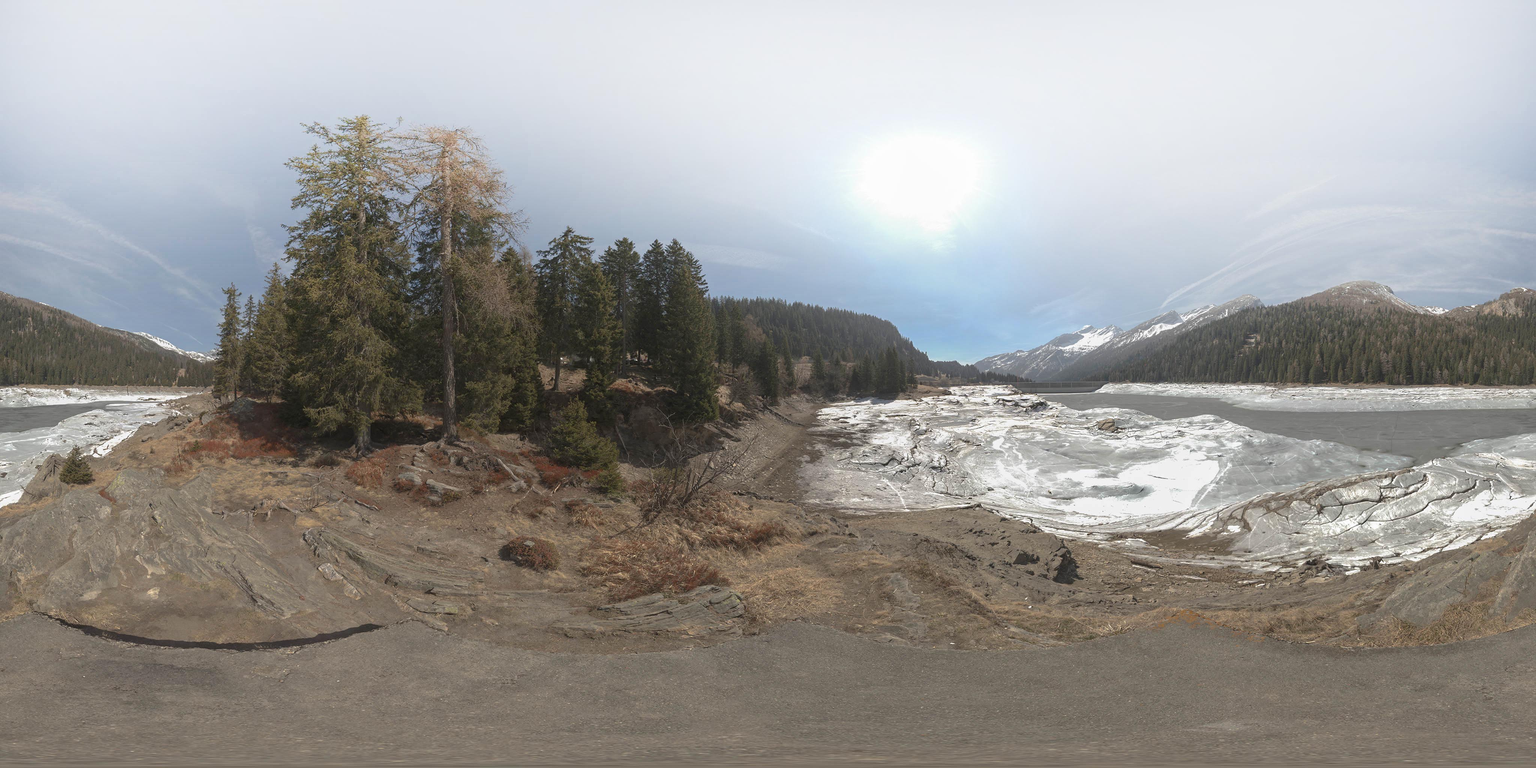
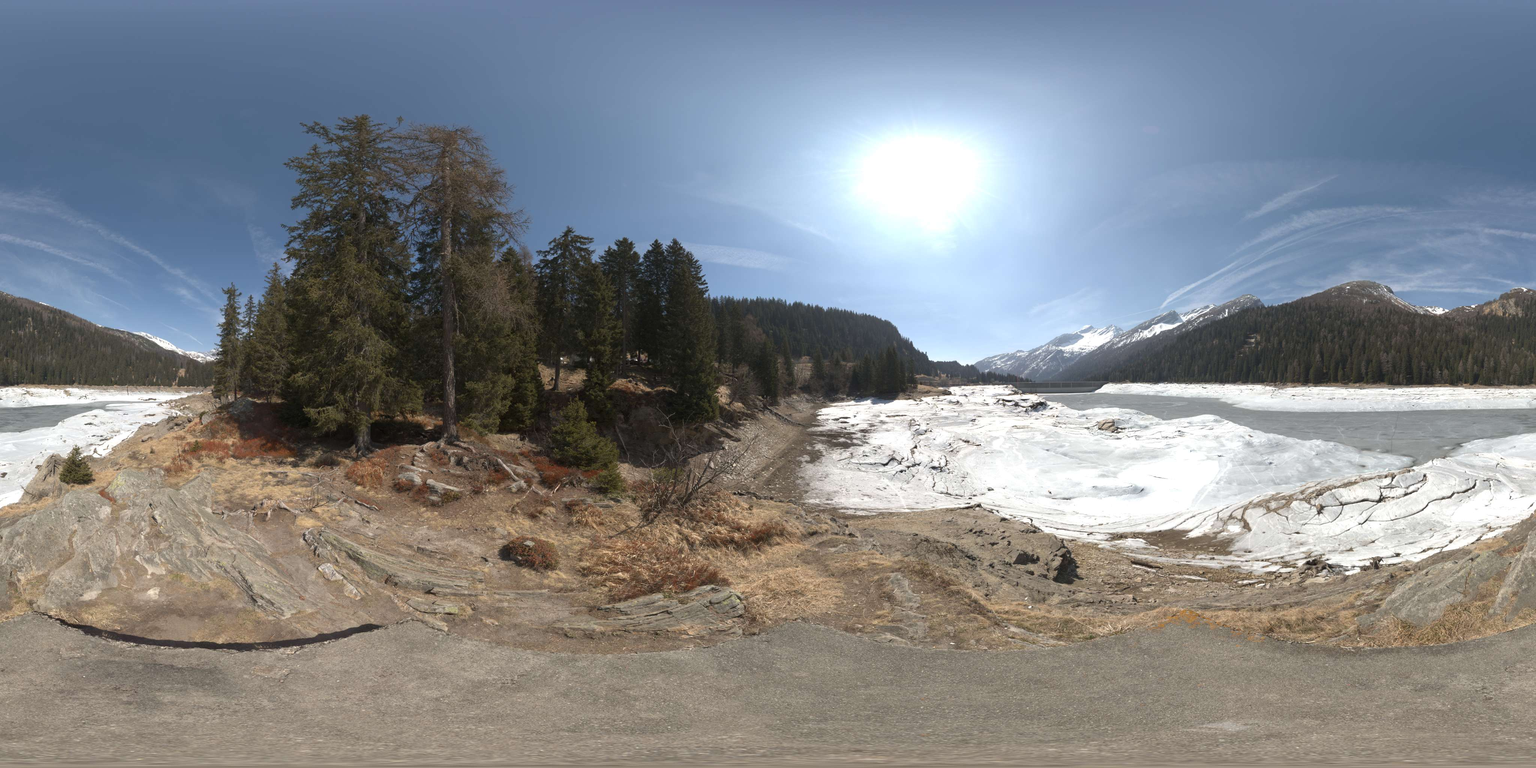
added new hdris with gain maps

diff --git a/kingsley/js/configuratorscript.js b/kingsley/js/configuratorscript.js
@@ -95,51 +95,75 @@ const handleToggleButton = () => {
 // Call the function to handle the button click
 handleToggleButton();
 
-  // Variable to store the current skybox image URL
+// Variable to store the current skybox and environment image URLs
 let currentSkyboxImageUrl = null;
+let currentEnvironmentImageUrl = null;
 
-// Function to set the skybox image dynamically with query parameters
-function setSkyboxImage(imageUrl) {
-  // Generate a unique timestamp using Date.now()
-  const timestamp = Date.now();
+// Function to set the skybox and environment image dynamically with query parameters
+function setSkyboxAndEnvironmentImages(skyboxImageUrl, environmentImageUrl) {
+    // Generate a unique timestamp using Date.now()
+    const timestamp = Date.now();
 
-  // Append the timestamp as a query parameter to the image URL
-  const urlWithTimestamp = `${imageUrl}?timestamp=${timestamp}`;
+    // Append the timestamp as a query parameter to the URLs
+    const skyboxUrlWithTimestamp = `${skyboxImageUrl}?timestamp=${timestamp}`;
+    const environmentUrlWithTimestamp = `${environmentImageUrl}?timestamp=${timestamp}`;
 
-  // Cleanup previous skybox image from memory
-  cleanupPreviousSkybox();
+    // Cleanup previous skybox and environment images from memory
+    cleanupPreviousSkybox();
 
-  // Store the current skybox image URL
-  currentSkyboxImageUrl = urlWithTimestamp;
+    // Store the current skybox and environment image URLs
+    currentSkyboxImageUrl = skyboxUrlWithTimestamp;
+    currentEnvironmentImageUrl = environmentUrlWithTimestamp;
 
-  // Set the skybox image with the updated URL
-  const modelViewer = document.querySelector("#configurator"); // Assuming this is your model-viewer element
-  modelViewer.setAttribute('skybox-image', urlWithTimestamp);
+    // Set the skybox and environment images with the updated URLs
+    const modelViewer = document.querySelector("#configurator"); // Assuming this is your model-viewer element
+    modelViewer.setAttribute('skybox-image', skyboxUrlWithTimestamp);
+    modelViewer.setAttribute('environment-image', environmentUrlWithTimestamp);
 }
 
-// Function to cleanup the previous skybox image from memory
+// Function to cleanup the previous skybox and environment images from memory
 function cleanupPreviousSkybox() {
-  if (currentSkyboxImageUrl) {
-    URL.revokeObjectURL(currentSkyboxImageUrl);
-    currentSkyboxImageUrl = null;
-  }
+    if (currentSkyboxImageUrl) {
+        URL.revokeObjectURL(currentSkyboxImageUrl);
+        currentSkyboxImageUrl = null;
+    }
+    if (currentEnvironmentImageUrl) {
+        URL.revokeObjectURL(currentEnvironmentImageUrl);
+        currentEnvironmentImageUrl = null;
+    }
 }
 
-// Function to choose a random skybox image URL
-function getRandomSkyboxImage() {
-  const skyboxImages = [
-    "https://archiebattley.com/kingsley/img/hdri/eveningfield.jpg",
-    "https://archiebattley.com/kingsley/img/hdri/mountainlake.jpg",
-    "https://archiebattley.com/kingsley/img/hdri/university.jpg",
-    "https://archiebattley.com/kingsley/img/hdri/dirtroad.jpg",
-    "https://archiebattley.com/kingsley/img/hdri/eveningroad.jpg",
-    // Add more skybox image URLs here...
+// Function to choose a random skybox image URL along with its corresponding environment image URL
+function getRandomSkyboxAndEnvironmentImage() {
+  const skyboxEnvironmentPairs = [
+      {
+          skybox: "https://archiebattley.com/kingsley/img/hdri/eveningfield.jpg",
+          environment: "https://archiebattley.com/kingsley/img/hdri/hdr/eveningfield.jpg"
+      },
+      {
+          skybox: "https://archiebattley.com/kingsley/img/hdri/mountainlake.jpg",
+          environment: "https://archiebattley.com/kingsley/img/hdri/hdr/mountainlake.jpg"
+      },
+      {
+          skybox: "https://archiebattley.com/kingsley/img/hdri/university.jpg",
+          environment: "https://archiebattley.com/kingsley/img/hdri/hdr/university.jpg"
+      },
+      {
+          skybox: "https://archiebattley.com/kingsley/img/hdri/dirtroad.jpg",
+          environment: "https://archiebattley.com/kingsley/img/hdri/hdr/dirtroad.jpg"
+      },
+      {
+          skybox: "https://archiebattley.com/kingsley/img/hdri/eveningroad.jpg",
+          environment: "https://archiebattley.com/kingsley/img/hdri/hdr/eveningroad.jpg"
+      },
+      // Add more skybox and environment image URLs here...
   ];
-  return skyboxImages[Math.floor(Math.random() * skyboxImages.length)];
+  return skyboxEnvironmentPairs[Math.floor(Math.random() * skyboxEnvironmentPairs.length)];
 }
 
-// Set a random skybox image on page load
-setSkyboxImage(getRandomSkyboxImage());
+// Set a random skybox image and its corresponding environment image on page load
+const randomImages = getRandomSkyboxAndEnvironmentImage();
+setSkyboxAndEnvironmentImages(randomImages.skybox, randomImages.environment);
 
 // Skybox Functionality End
 

diff --git a/kingsley.html b/kingsley.html
@@ -41,7 +41,7 @@
 
 <body class="kingsleybackground noselect" style="height: 100%; overflow: hidden;">
   <!-- Model Viewer Element -->
-  <model-viewer loading="eager" id="configurator" bounds="tight" enable-pan poster="kingsley/img/loader.gif" src="https://archiebattley.com/kingsley/models/KingsleyVersion3.glb" skybox-image="" skybox-height="9m" camera-controls="basic" touch-action="none" interaction-prompt="none" autoplay="false" interpolation-decay="100" shadow-intensity="2.8" exposure="1" shadow-softness="0.7" tone-mapping="commerce" camera-orbit="-36deg 88deg 20m" min-camera-orbit="auto auto 3m" max-camera-orbit="auto 90deg auto" camera-target="0m 1.5m 0m">
+  <model-viewer loading="eager" id="configurator" bounds="tight" enable-pan poster="kingsley/img/loader.gif" src="https://archiebattley.com/kingsley/models/KingsleyVersion3.glb" environment-image="" skybox-image="" skybox-height="9m" camera-controls="basic" touch-action="none" interaction-prompt="none" autoplay="false" interpolation-decay="100" shadow-intensity="2.8" exposure="1" shadow-softness="0.7" tone-mapping="commerce" camera-orbit="-36deg 88deg 20m" min-camera-orbit="auto auto 3m" max-camera-orbit="auto 90deg auto" camera-target="0m 1.5m 0m">
     <!-- Hotspot for Wheel Paint -->
     <div class="text-center" slot="hotspot-0" data-position="-1.657174348831175m 0.704767189287746m -2.063101221949054m" data-normal="-1m 0m 0m" data-orbit="-19.53deg 88.61deg 20.56m" data-target="2.5m 0.60m -10m" data-visibility-attribute="visible">
       <button class="btn btn-icons fas fa-paint-roller" data-toggle="collapse" href="#WheelPaint" role="button" aria-expanded="false" aria-controls="WheelPaint"></button>
@@ -91,20 +91,20 @@
             <div class="annotation shadow-lg skybox-controls text-center ml-0 mr-0 mb-0" id="skybox-controls">
               <p class="font-weight-bold text-dark text-center m-0 text-xsmall" inert>backdrop</p>
               <div class="pt-2 pb-1 pl-0 pr-0">
-                <button class="btn btn-squared eveningfield" onclick="setSkyboxImage('https://archiebattley.com/kingsley/img/hdri/eveningfield.jpg')">Evening<br>Field</button>
+                <button class="btn btn-squared eveningfield" onclick="setSkyboxAndEnvironmentImages('https://archiebattley.com/kingsley/img/hdri/eveningfield.jpg', 'https://archiebattley.com/kingsley/img/hdri/hdr/eveningfield.jpg')">Evening<br>Field</button>
               </div>
               <div class="pt-1 pb-1 pl-0 pr-0">
-                <button class="btn btn-squared mountainlake" onclick="setSkyboxImage('https://archiebattley.com/kingsley/img/hdri/mountainlake.jpg')">Mountain<br>Lake</button>
+                <button class="btn btn-squared mountainlake" onclick="setSkyboxAndEnvironmentImages('https://archiebattley.com/kingsley/img/hdri/mountainlake.jpg', 'https://archiebattley.com/kingsley/img/hdri/hdr/mountainlake.jpg')">Mountain<br>Lake</button>
               </div>
               <div class="pt-1 pb-1 pl-0 pr-0">
-                <button class="btn btn-squared university" onclick="setSkyboxImage('https://archiebattley.com/kingsley/img/hdri/university.jpg')">Uni-<br>versity</button>
+                <button class="btn btn-squared university" onclick="setSkyboxAndEnvironmentImages('https://archiebattley.com/kingsley/img/hdri/university.jpg', 'https://archiebattley.com/kingsley/img/hdri/hdr/university.jpg')">Uni-<br>versity</button>
               </div>
               <div class="pt-1 pb-1 pl-0 pr-0">
-                <button class="btn btn-squared dirtroad" onclick="setSkyboxImage('https://archiebattley.com/kingsley/img/hdri/dirtroad.jpg')">Dirt<br>Road</button>
+                <button class="btn btn-squared dirtroad" onclick="setSkyboxAndEnvironmentImages('https://archiebattley.com/kingsley/img/hdri/dirtroad.jpg', 'https://archiebattley.com/kingsley/img/hdri/hdr/dirtroad.jpg')">Dirt<br>Road</button>
               </div>
               <div class="pt-1 pb-0 pl-0 pr-0">
-                <button class="btn btn-squared eveningroad" onclick="setSkyboxImage('https://archiebattley.com/kingsley/img/hdri/eveningroad.jpg')">Evening<br>Road</button>
-              </div> 
+                <button class="btn btn-squared eveningroad" onclick="setSkyboxAndEnvironmentImages('https://archiebattley.com/kingsley/img/hdri/eveningroad.jpg', 'https://archiebattley.com/kingsley/img/hdri/hdr/eveningroad.jpg')">Evening Road</button>
+            </div>
               <!-- Add more buttons for other skybox options -->
             </div>
           </div>
